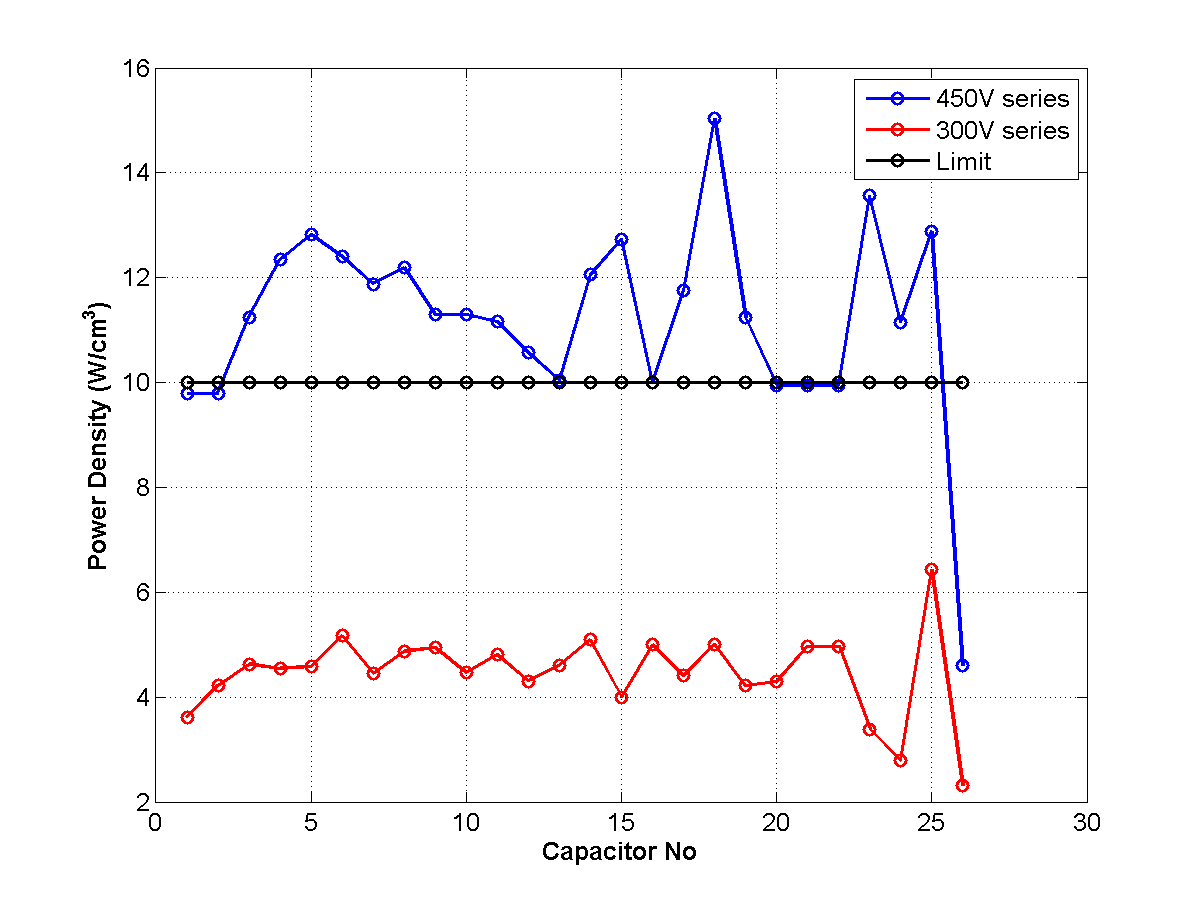
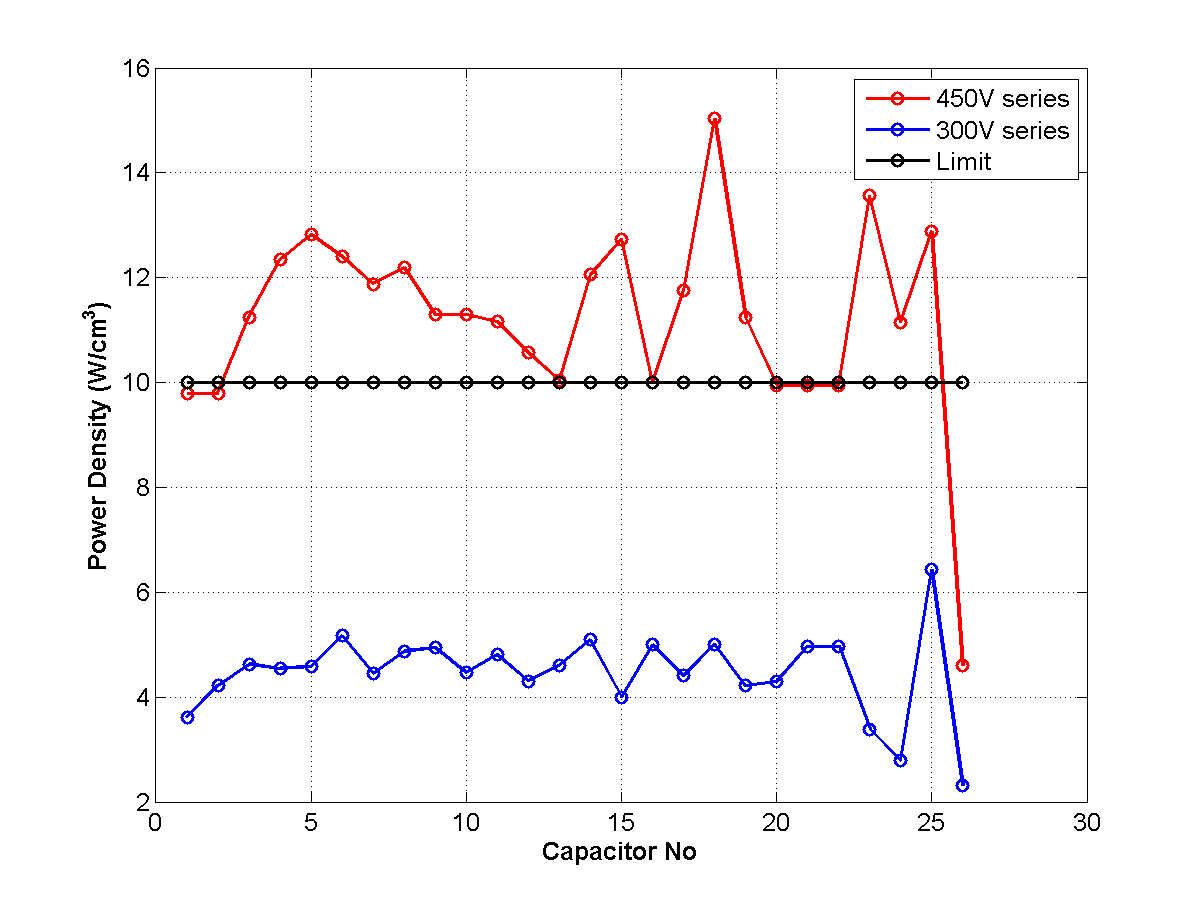
.

diff --git a/simulation/immd_capacitor_rms_current.m b/simulation/immd_capacitor_rms_current.m
@@ -194,9 +194,9 @@ end
 num = numel(cap_select);
 power_density_limit = power_density_min*ones(1,num);
 fig = figure;
-plot(cap_select,power_density_450,'bo-','Linewidth',1.5);
+plot(cap_select,power_density_450,'ro-','Linewidth',1.5);
 hold on;
-plot(cap_select,power_density_300,'ro-','Linewidth',1.5);
+plot(cap_select,power_density_300,'bo-','Linewidth',1.5);
 hold on;
 plot(cap_select,power_density_limit,'ko-','Linewidth',1.5);
 hold off;

diff --git a/ISIE 2017/isie2017_taslak.md b/ISIE 2017/isie2017_taslak.md
@@ -62,6 +62,29 @@ Buraya bir-iki görsel gelecek (referans)
 
 * Types of Capacitors
 
+# Capacitor Types
+## Aluminium electrolytic capacitor
+* ++ High capacitance per volume
+* ++ Low cost
+* ++ Suitable for vibrational environment
+* -- Sensitive to temperature change
+* -- Low RMS current rating per volume
+
+## Polypropylene film capacitor
+* ++ High RMS current rating per volume
+* ++ Small ESL
+* ++ Better temperature stability
+* ++ Suitable for vibrational environment
+* -- Low capacitance per volume
+* -- High cost
+
+## Multi-layer ceramic capacitor (MLCC)
+* ++ Low cost
+* ++ High RMS current rating per volume
+* -- Low capacitance per volume
+* -- No self-healing capability
+* -- Limited power rating (multiple series and parallel capacitors)
+
 * Capacitor Selection Aspects
 
 * Capacitor Selection Algorithm
